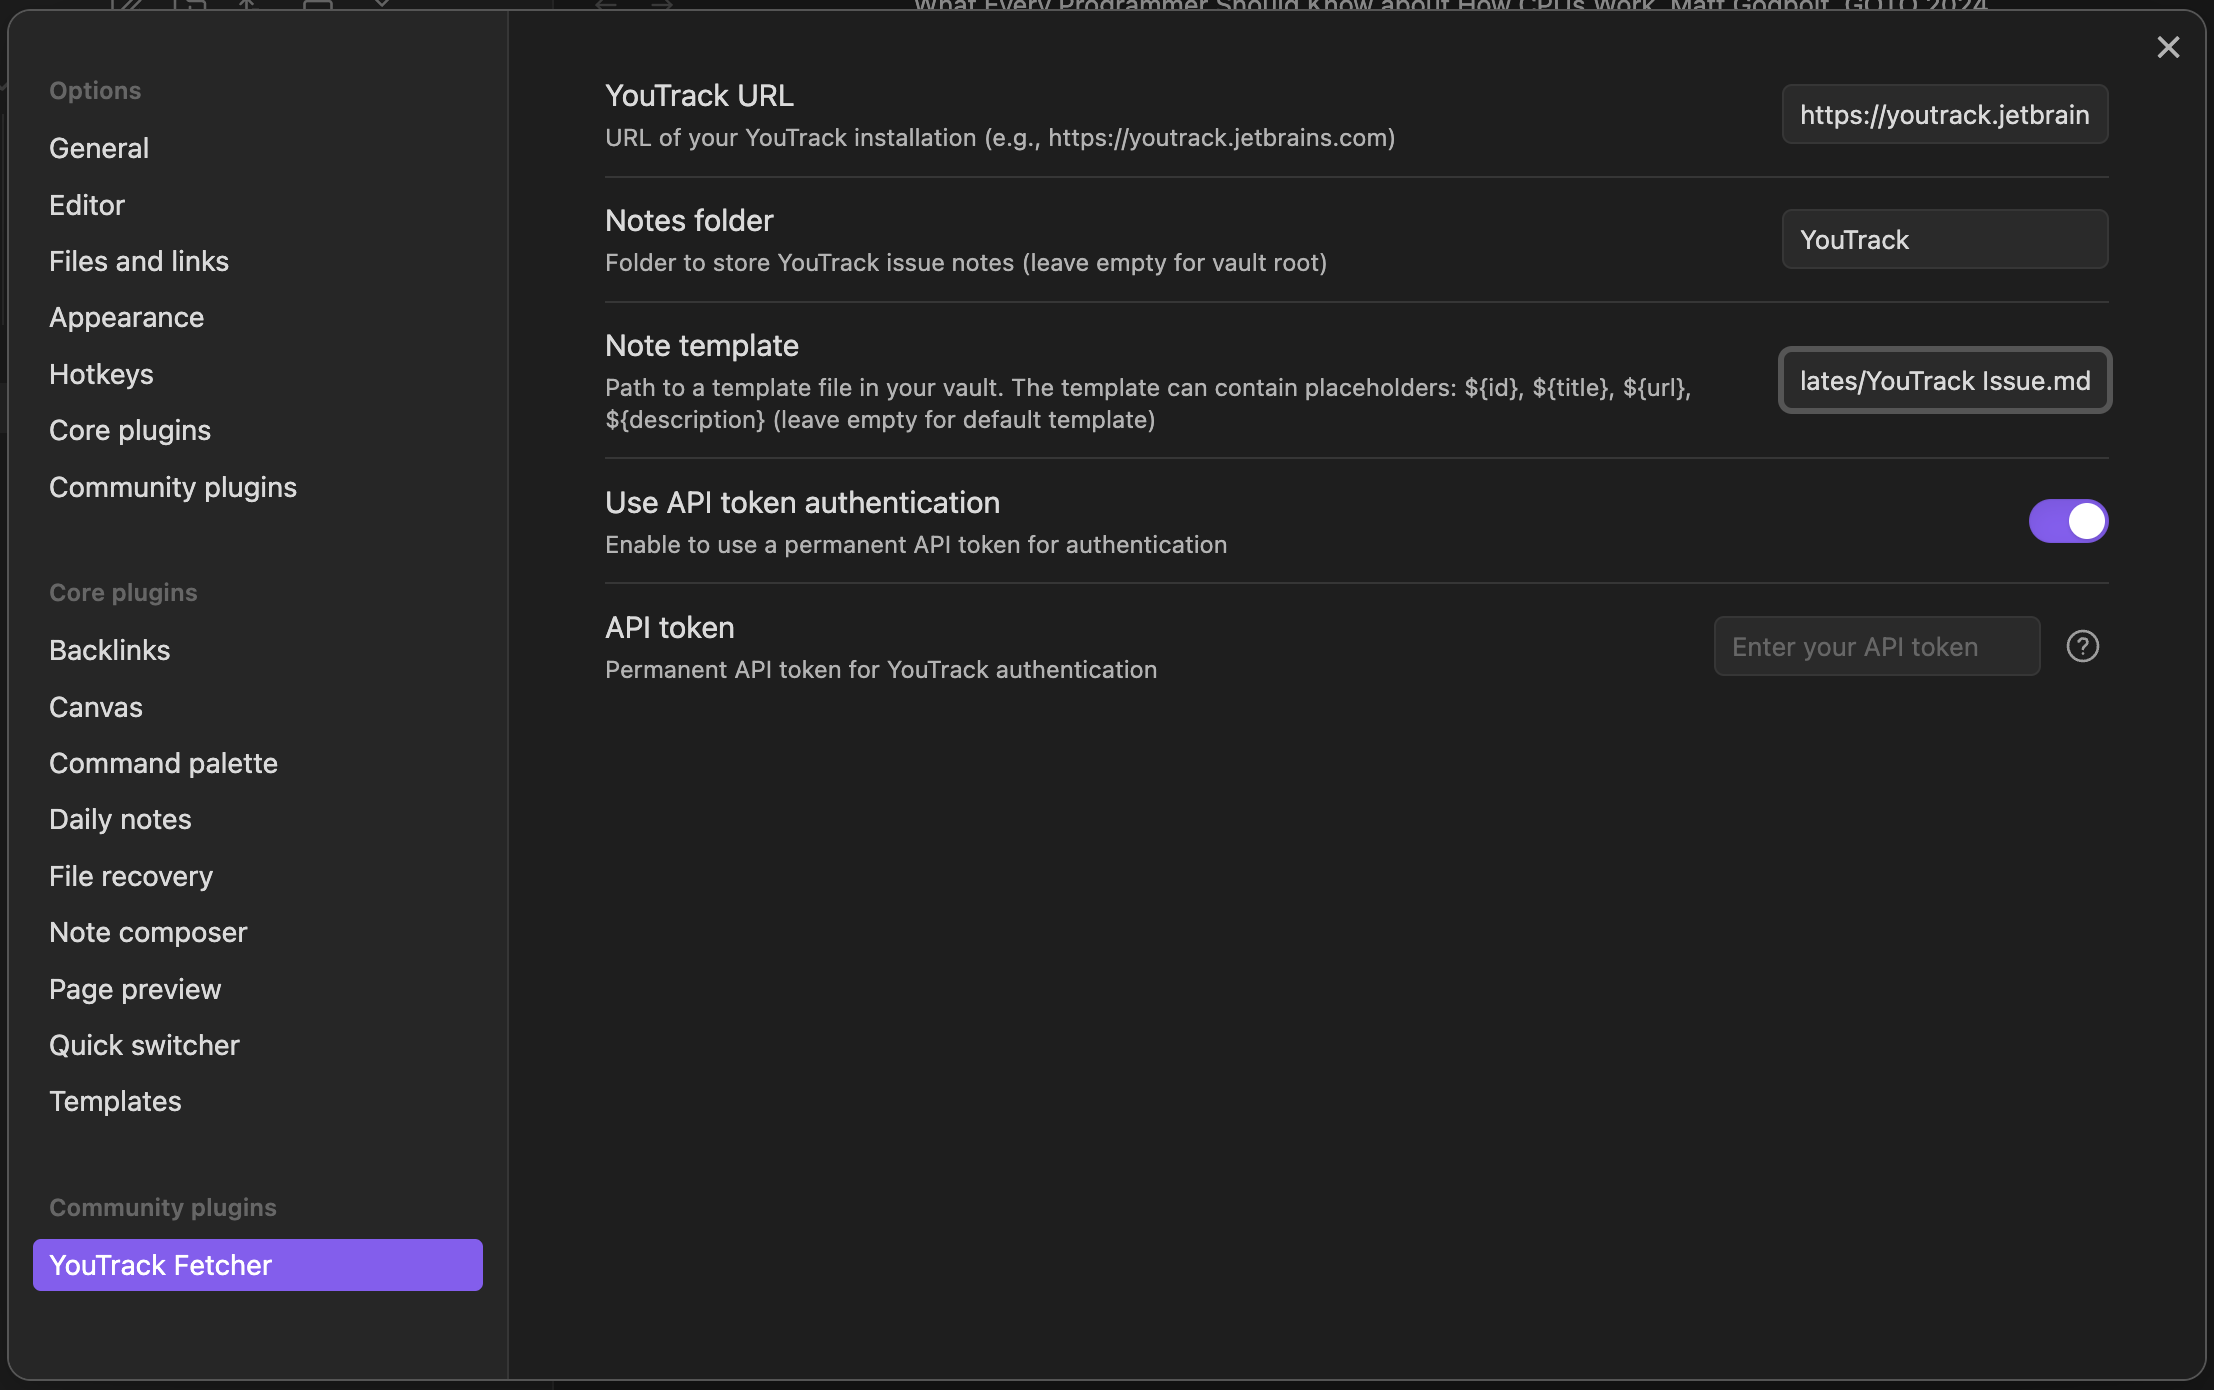
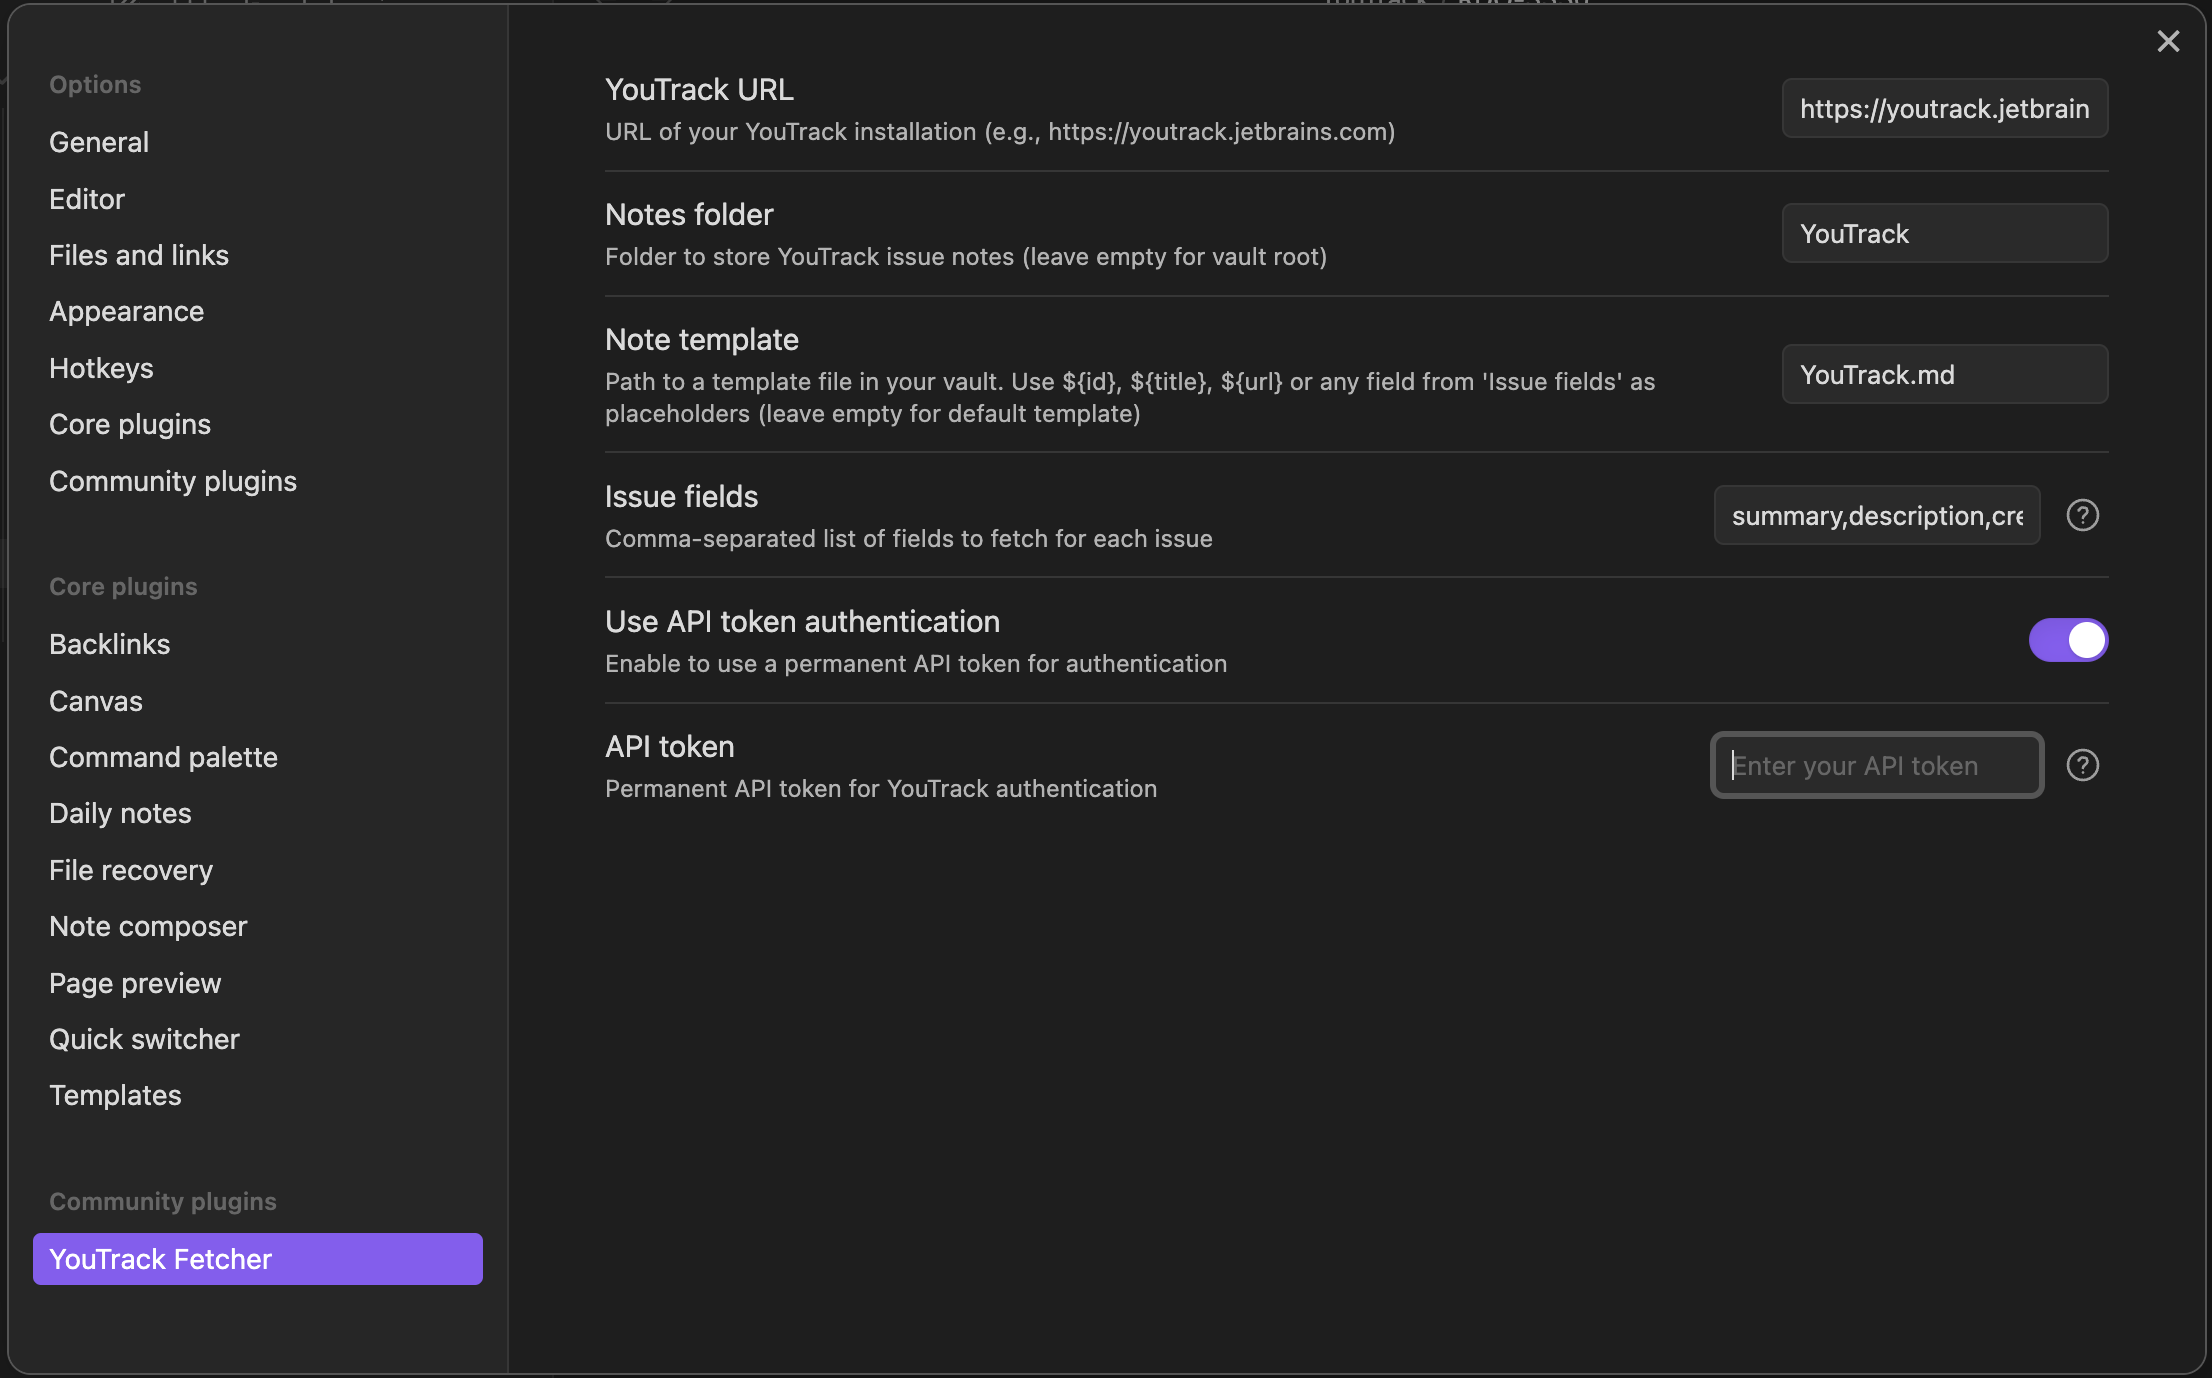
Updated plugin documentation

diff --git a/README.md b/README.md
@@ -54,7 +54,9 @@ URL: ${url}
 ${description}
 ```
 
-Any field listed in **Issue fields** can be used as a placeholder with `${field}`.
+Any field listed in **Issue fields** setting can be used as a placeholder with `${field}`.
+
+The issue `summary` can also be used as a `${title}` placeholder.
 
 ## Requirements
 
